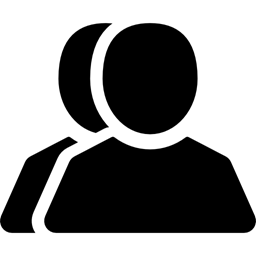
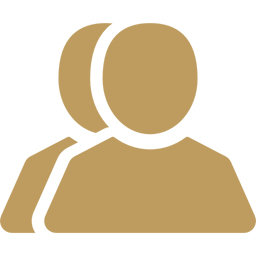
Commit final, Spring V4, añadido algo de css y algún pequeño cambio

diff --git a/src/main/java/org/iesalandalus/programacion/reservasaulas/vista/iugrafica/iugventanas.css b/src/main/java/org/iesalandalus/programacion/reservasaulas/vista/iugrafica/iugventanas.css
@@ -1,33 +1,34 @@
 * {
-	-fx-font: 14 arial;
-	-fx-base: #b0c4de;
+	-fx-base: #aeaeaf ;
+}
+.tableview{
+	-fx-background-color: #be9c5f;
 }
 
 .titled-pane .title {
-	-fx-background-radius: 20 20 0 0;
+	-fx-background-radius: 0 0 0 0;
 	-fx-border-color: none;
 }
 
 .titled-pane .content {
-	-fx-background-radius: 0 0 20 20;
+	-fx-background-radius: 0 0 20 0;
 	-fx-border-color: none;
 }
 
 .titled-pane .title .text {
-	-fx-font: bold 20 "arial";
-	-fx-base: #b6e7c9;
+	-fx-base: #be9c5f;
 }
 
 .titled-pane .content {
-	-fx-background-color: #4682b4;
+	-fx-background-color: #be9c5f;
 }
 
 .vbox {
-	-fx-background-color: #b0c4de;
+	-fx-background-color: #be9c5f;
 }
 
 .menu-item, .context-menu {
-	-fx-background-color: #b0c4de;
+	-fx-background-color: #be9c5f;
 }
 
 .menu-item:hover, .context-menu:hover {
@@ -38,12 +39,7 @@
 	-fx-background-radius: 10;
 }
 
-#btAnadir, #btAceptar, #btListar, #btAnadirHoras, #btAnadirPrecioMaterial {
+#btAnadir, #btAceptar, #btListar, #btAnadirHoras, #btAnadirPrecioMaterial, #btRealizar, #btCancelar, #btBorrar, #btDisponibilidad{
 	-fx-font: 22 "arial";
-	-fx-base: #b6e7c9;
-}
-
-#btCancelar, #btBorrar, #btCerrar {
-	-fx-font: 20 "arial";
-	-fx-base: #dc143c;
+	-fx-base: #aeaeaf;
 }

diff --git a/src/main/java/org/iesalandalus/programacion/reservasaulas/vista/iugrafica/controladoresvistas/ControladorVentanaReservas.java b/src/main/java/org/iesalandalus/programacion/reservasaulas/vista/iugrafica/controladoresvistas/ControladorVentanaReservas.java
@@ -5,7 +5,6 @@ import java.time.format.DateTimeFormatter;
 
 import org.iesalandalus.programacion.reservasaulas.controlador.IControladorReservasAulas;
 import org.iesalandalus.programacion.reservasaulas.modelo.dominio.Reserva;
-import org.iesalandalus.programacion.reservasaulas.vista.iugrafica.controladoresvistas.controladoresReservas.ControladorBorrarReserva;
 import org.iesalandalus.programacion.reservasaulas.vista.iugrafica.controladoresvistas.controladoresReservas.ControladorRealizarReserva;
 import org.iesalandalus.programacion.reservasaulas.vista.iugrafica.utilidades.Dialogos;
 
@@ -32,7 +31,6 @@ import javafx.scene.control.TableColumn;
 import javafx.scene.control.TableView;
 import javafx.scene.control.TextField;
 import javafx.scene.control.TitledPane;
-import javafx.scene.layout.GridPane;
 import javafx.scene.layout.VBox;
 import javafx.stage.Modality;
 import javafx.stage.Stage;
@@ -125,7 +123,7 @@ public class ControladorVentanaReservas {
 		Alert dialogo = new Alert(AlertType.INFORMATION);
 		dialogo.setTitle("Acerca de ...");
 		DialogPane panelDialogo = dialogo.getDialogPane();
-		//panelDialogo.getStylesheets().add(getClass().getResource("../iugventanas.css").toExternalForm());
+		panelDialogo.getStylesheets().add(getClass().getResource("../iugventanas.css").toExternalForm());
 		panelDialogo.lookupButton(ButtonType.OK).setId("btAceptar");
 		VBox contenido = new VBox();
 		contenido.setAlignment(Pos.CENTER);

diff --git a/src/main/java/org/iesalandalus/programacion/reservasaulas/vista/iugrafica/controladoresvistas/ControladorMenuPrincipal.java b/src/main/java/org/iesalandalus/programacion/reservasaulas/vista/iugrafica/controladoresvistas/ControladorMenuPrincipal.java
@@ -73,11 +73,10 @@ public class ControladorMenuPrincipal {
 	
  	@FXML
 	private void acercaDe() {
-		
 		Alert dialogo = new Alert(AlertType.INFORMATION);
 		dialogo.setTitle("Acerca de ...");
 		DialogPane panelDialogo = dialogo.getDialogPane();
-		//panelDialogo.getStylesheets().add(getClass().getResource("../iugventanas.css").toExternalForm());
+		panelDialogo.getStylesheets().add(getClass().getResource("../iugventanas.css").toExternalForm());
 		panelDialogo.lookupButton(ButtonType.OK).setId("btAceptar");
 		VBox contenido = new VBox();
 		contenido.setAlignment(Pos.CENTER);

diff --git a/src/main/java/org/iesalandalus/programacion/reservasaulas/vista/iugrafica/controladoresvistas/ControladorVentanaProfesores.java b/src/main/java/org/iesalandalus/programacion/reservasaulas/vista/iugrafica/controladoresvistas/ControladorVentanaProfesores.java
@@ -141,7 +141,7 @@ public class ControladorVentanaProfesores {
     	Alert dialogo = new Alert(AlertType.INFORMATION);
 		dialogo.setTitle("Acerca de ...");
 		DialogPane panelDialogo = dialogo.getDialogPane();
-		//panelDialogo.getStylesheets().add(getClass().getResource("../iugventanas.css").toExternalForm());
+		panelDialogo.getStylesheets().add(getClass().getResource("../iugventanas.css").toExternalForm());
 		panelDialogo.lookupButton(ButtonType.OK).setId("btAceptar");
 		VBox contenido = new VBox();
 		contenido.setAlignment(Pos.CENTER);

diff --git a/src/main/java/org/iesalandalus/programacion/reservasaulas/vista/iugrafica/controladoresvistas/ControladorVentanaAulas.java b/src/main/java/org/iesalandalus/programacion/reservasaulas/vista/iugrafica/controladoresvistas/ControladorVentanaAulas.java
@@ -144,7 +144,7 @@ public class ControladorVentanaAulas {
     	Alert dialogo = new Alert(AlertType.INFORMATION);
 		dialogo.setTitle("Acerca de ...");
 		DialogPane panelDialogo = dialogo.getDialogPane();
-		//panelDialogo.getStylesheets().add(getClass().getResource("../iugventanas.css").toExternalForm());
+		panelDialogo.getStylesheets().add(getClass().getResource("../iugventanas.css").toExternalForm());
 		panelDialogo.lookupButton(ButtonType.OK).setId("btAceptar");
 		VBox contenido = new VBox();
 		contenido.setAlignment(Pos.CENTER);
